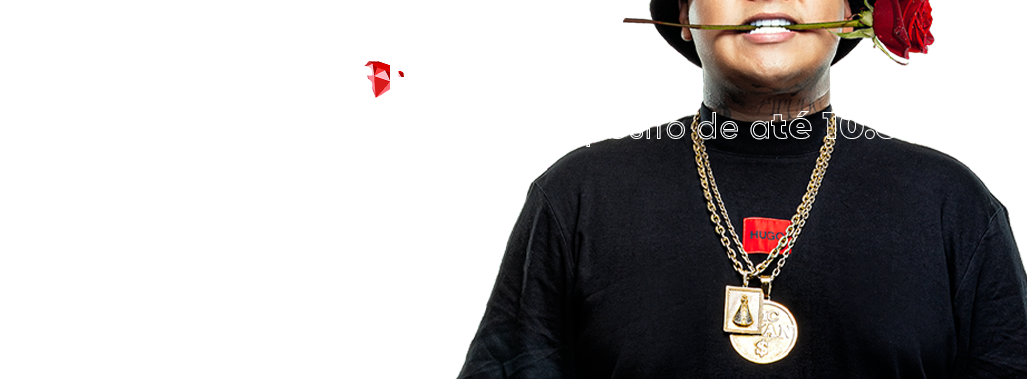
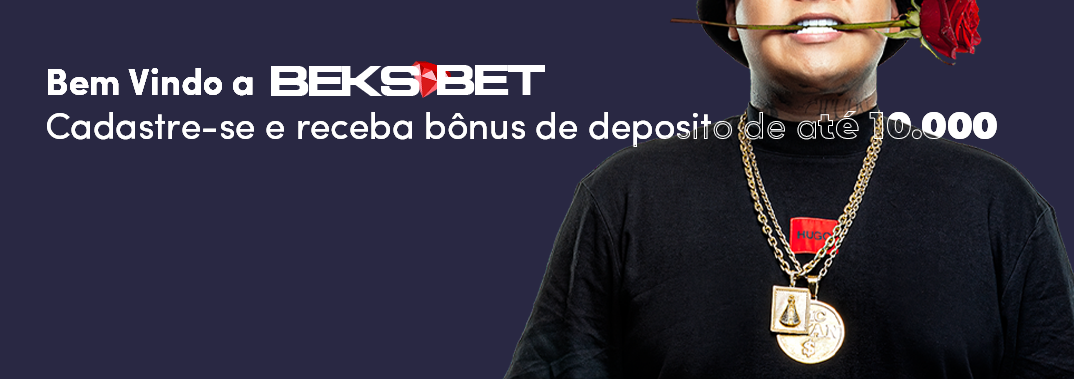
slider

diff --git a/cabeçalho.css b/cabeçalho.css
@@ -4,14 +4,16 @@
 }
 @font-face {
     font-family: 'SF-Arborcrest-Heavy';
-    src: url('fonts/Sofia\ Pro\ Black\ Az.otf') format('truetype');
+    src: url('fonts/Sofia Pro Black Az.otf') format('truetype');
 }
-main{
+
+main {
     background-color: #232239;
     border: 2px solid white;
     background-size: cover;
-    height: 92vh;
+    height: 80vh;
 }
+
 nav {
     display: flex;
     justify-content: space-around;
@@ -19,32 +21,34 @@ nav {
     background: #232239;
     height: 10vh;
 }
-ul{
+
+ul {
     list-style-type: none;
 }
-ul li.item-menu a{
+
+ul li.item-menu a {
     font-family: Sofia;
     color: #bfbfbf;
     text-decoration: none;
     font-size: 15px;
     display: flex;
-   margin-left: 4px;
-    margin-bottom:20px;
+    margin-left: 4px;
+    margin-bottom: 20px;
     transition: color 0.2s;
 }
-ul li.item-menu a:hover{
+
+ul li.item-menu a:hover {
     color: white;
 }
-ul li.item-menu a .text-link{
-    opacity: 0; /* Torna o texto invisível */
-    color: #bfbfbf; /* Define a cor do texto como branco */
-    transition: opacity 0.3s; /* Transição suave para a opacidade */
-    margin-left: 5px;
-    white-space: nowrap; /* Mantém o texto em uma linha */
-    display: inline-block;
-    font-size: 14px; /* Garante que o texto ocupe espaço ao ser visível */
-}
 
+ul li.item-menu a .text-link {
+    color: #bfbfbf;
+    transition: opacity 0.3s;
+    margin-left: 15px;
+    white-space: nowrap;
+    display: inline-block;
+    font-size: 14px;
+}
 
 .nav-list {
     list-style: none;
@@ -71,53 +75,52 @@ ul li.item-menu a .text-link{
     margin-left: 10px;
 }
 
-.CadastroUser{
+.CadastroUser {
     background-color: #d91a1a;
     padding: 10px;
     border-radius: 15px;
-
 }
+
 .logo,
-.link-imagem{
+.link-imagem {
     position: relative;
     width: 150px;
     left: -60px;
 }
-.item-menu{
+
+.item-menu {
     position: relative;
     top: 80px;
     left: -30px;
     font-size: 20px;
     background-color: transparent;
-
 }
 
-.btn-expandir{
+.btn-expandir {
     position: fixed;
     left: 50px;
-    
 }
 
-.btn-expandir > i{
+.btn-expandir > i {
     background-color: transparent;
     color: white;
     font-size: 27px;
     cursor: pointer;
-
 }
-.barra-flexivel{
+
+.barra-flexivel {
     position: fixed;
     border: 2px solid red;
     width: 40px;
     height: 994px;
     top: 95px;
     left: 10px;
-    overflow-y: auto;
-    transition: width 0.3s; 
-
+    overflow: hidden;
+    transition: width 0.3s;
 }
-.barra-flexivel:hover{
-    width: 180px;
+
+.barra-flexivel.expandir {
+    width: 190px;
 }
 
 .barra-flexivel:hover ul li.item-menu a .text-link {
@@ -125,14 +128,70 @@ ul li.item-menu a .text-link{
     color: #bfbfbf;
 }
 
-
 .barra-flexivel:hover ul li.item-menu a:hover .text-link {
     color: white;
-    
 }
 
+.slider {
+    position: absolute;
+    margin: 0 auto;
+    width: 1074px;
+    height: 379px;
+    overflow: hidden;
+    top: 140px;
+    left: 300px;
+}
 
+.slides {
+    position: absolute;
+    width: 1074px; /* para 3 slides */
+    height: 379px;
+    display: flex;
+}
 
+.slides input {
+    display: none;
+}
 
+.slide {
+    width: 379%;
+}
 
+.slide img {
+    width: 1074px;
+}
 
+.manual-navigation {
+    position: absolute;
+    width: 1074px;
+    margin-top: 350px;
+    display: flex;
+    justify-content: center;
+}
+
+.btn-manual {
+    border: 2px solid white;
+    padding: 5px;
+    border-radius: 10px;
+    cursor: pointer;
+    transition: 1s;
+}
+
+.btn-manual:not(:last-child) {
+    margin-right: 40px;
+}
+
+.btn-manual:hover {
+    background-color: white;
+}
+
+#radio:checked ~ .first{
+    margin-left: 0%;
+}
+#radio2:checked ~ .first {
+    margin-left: -1074px;
+}
+
+#radio3:checked ~ .first {
+    margin-left: -2148px;
+}

diff --git a/paginainicial.html b/paginainicial.html
@@ -1,5 +1,5 @@
 <!DOCTYPE html>
-<html lang="en">
+<html lang="pt-br">
 <head>
     <meta charset="UTF-8">
     <meta name="viewport" content="width=device-width, initial-scale=1.0">
@@ -19,11 +19,10 @@
                 <li><a href="/" class="LoginUser">Entrar</a></li>
                 <li><a href="/" class="CadastroUser">Cadastre-se</a></li>
             </ul>
-            <nav class="MenuLateral">
+            <div class="MenuLateral">
                 <div class="btn-expandir">
-                    <i class="bi bi-list"></i>
+                    <i class="bi bi-list" id="btn-expand"></i>
                 </div>
-                <!-- Barra flexível ao redor do UL completo -->
                 <div class="barra-flexivel">
                     <ul>
                         <li class="item-menu">
@@ -46,10 +45,42 @@
                         </li>
                     </ul>
                 </div>
-            </nav>
+            </div>
         </nav>
     </header>
     <main>
+        <div class="slider">
+            <div class="slides">
+                <input type="radio" name="botao-de-rolagem" id="radio1">
+                <input type="radio" name="botao-de-rolagem" id="radio2">
+                <input type="radio" name="botao-de-rolagem" id="radio3">
+                
+                <div class="slide first">
+                    <img src="images/imagem.png" alt="imagem1">
+                </div>
+                <div class="slide">
+                    <img src="images/Preenchimento de Cor 1.png" alt="imagem2">
+                </div>
+                <div class="slide">
+                    <img src="images/Preenchimento de Cor 2.png" alt="imagem3">
+                </div>
+            </div>
+            
+            <div class="navegation-auto">
+                <div class="auto-btn1"></div>
+                <div class="auto-btn2"></div>
+                <div class="auto-btn3"></div>
+            </div>
+
+            <div class="manual-navigation">
+                <label for="radio1" class="btn-manual"></label>
+                <label for="radio2" class="btn-manual"></label>
+                <label for="radio3" class="btn-manual"></label>
+            </div>
+        </div>
     </main>
+
+    <script src="js/menu.js"></script>
+    <script src="js/slider.js"></script>
 </body>
 </html>

diff --git a/js/menu.js b/js/menu.js
@@ -1,0 +1,6 @@
+var btnExpandir = document.querySelector('#btn-expand')
+var menuSide = document.querySelector('.barra-flexivel')
+
+btnExpandir.addEventListener('click' , function(){
+    menuSide.classList.toggle('expandir')
+})
